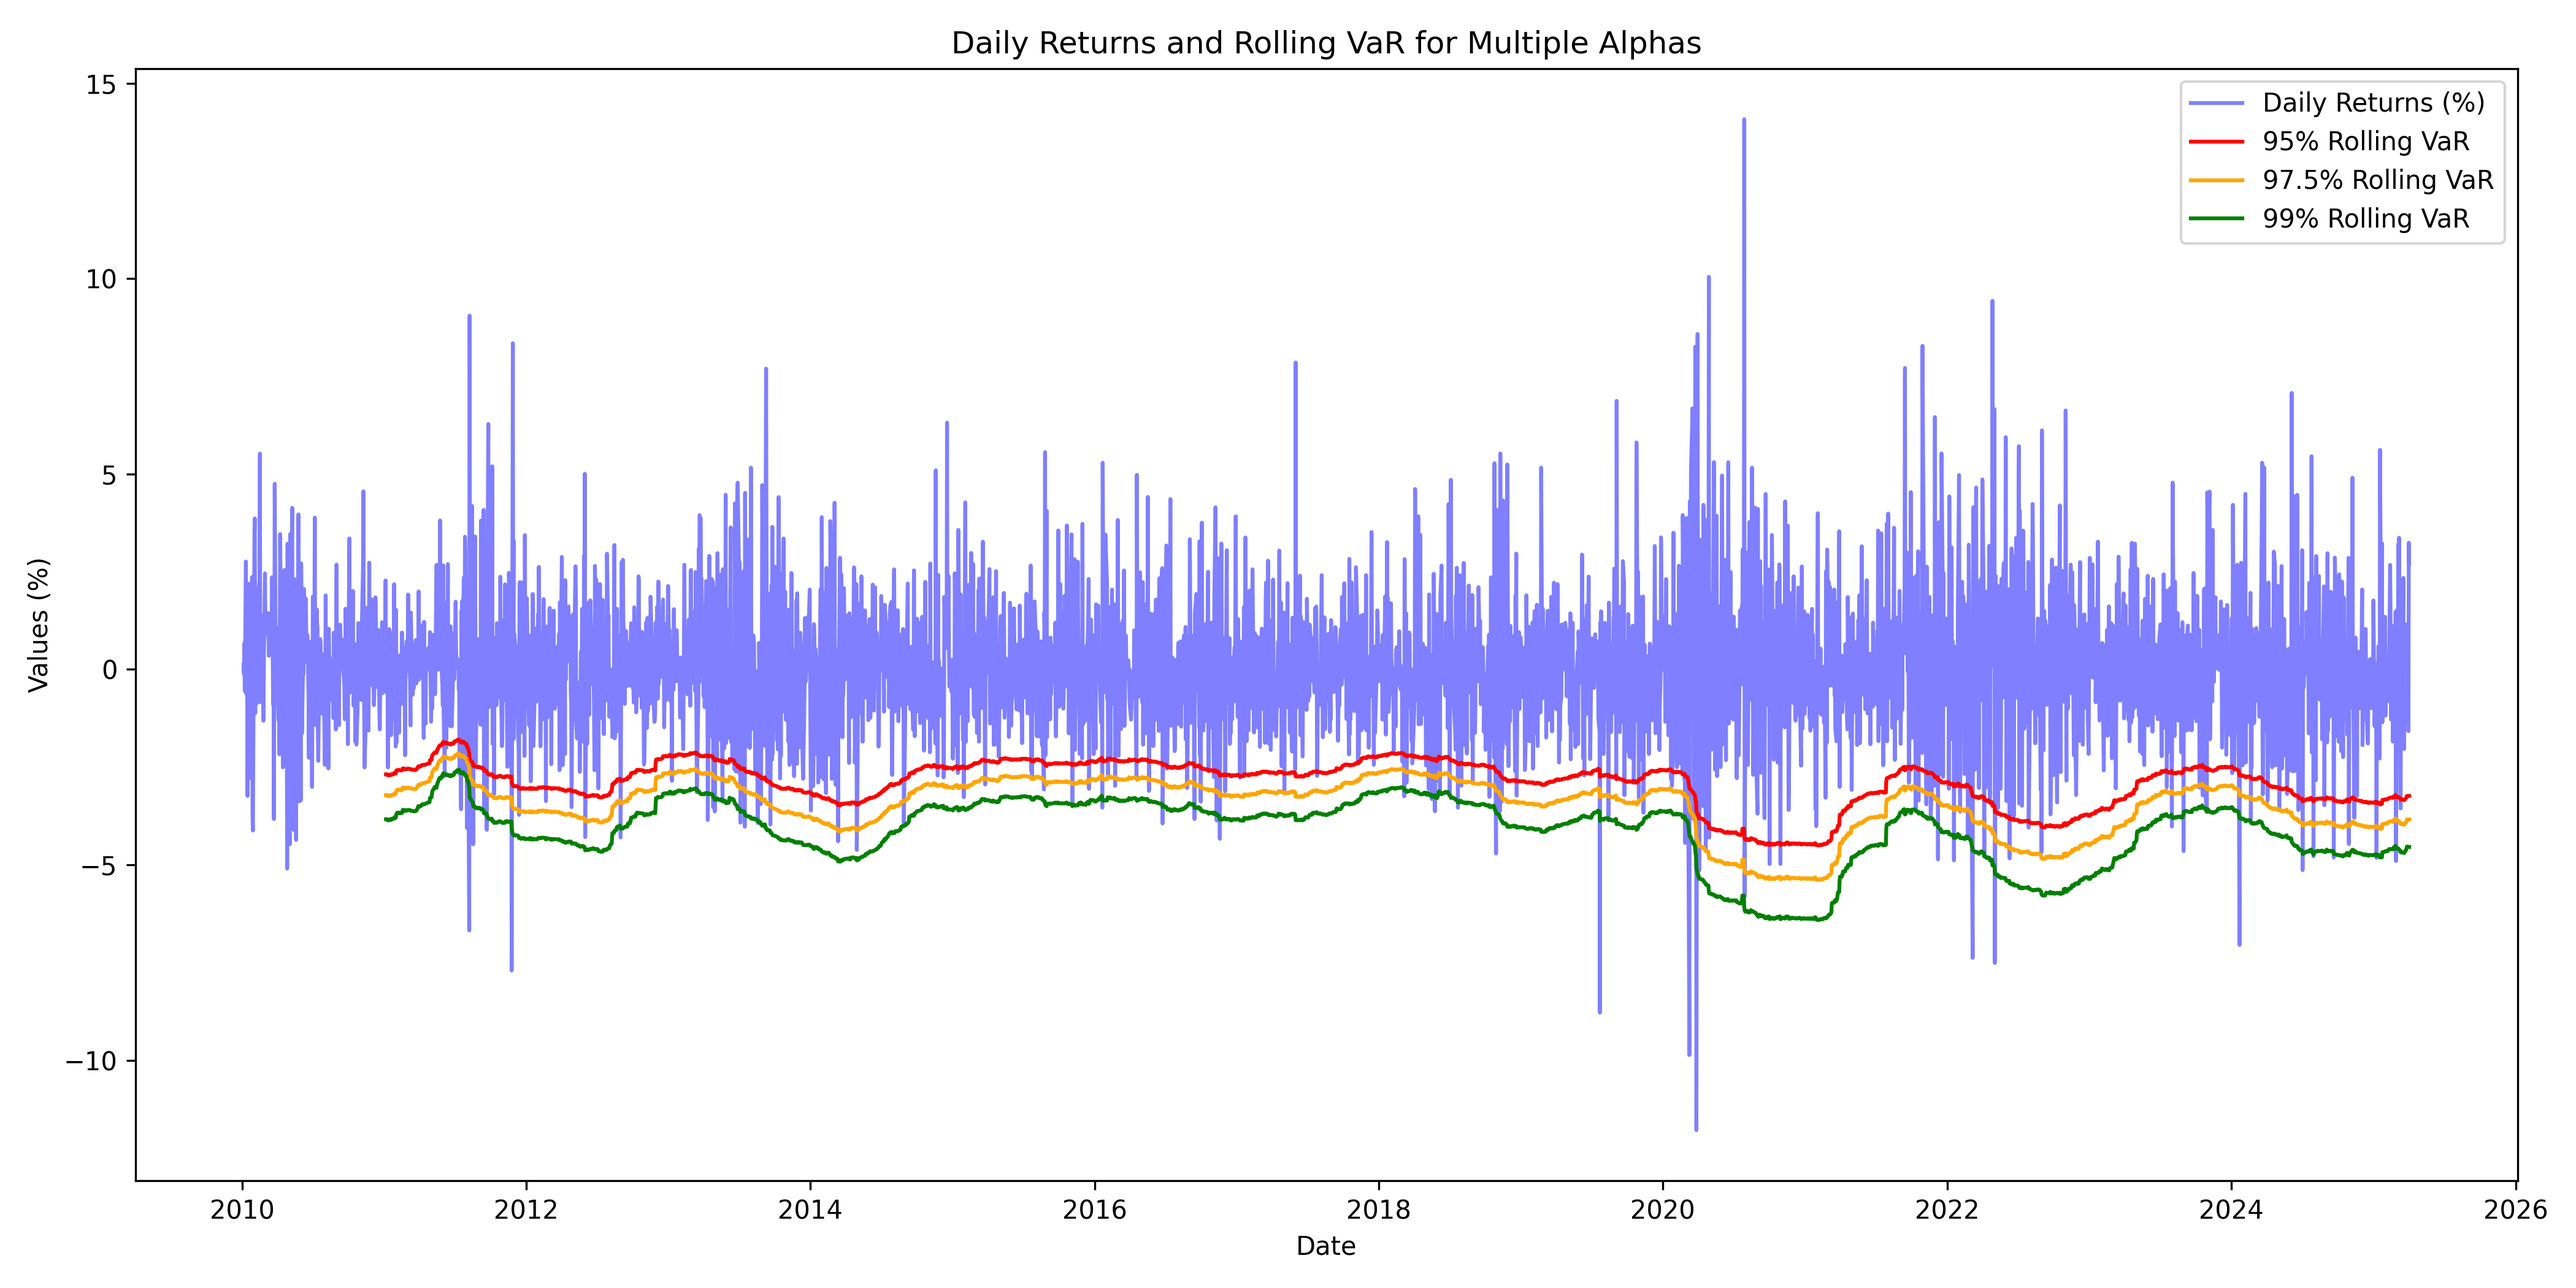
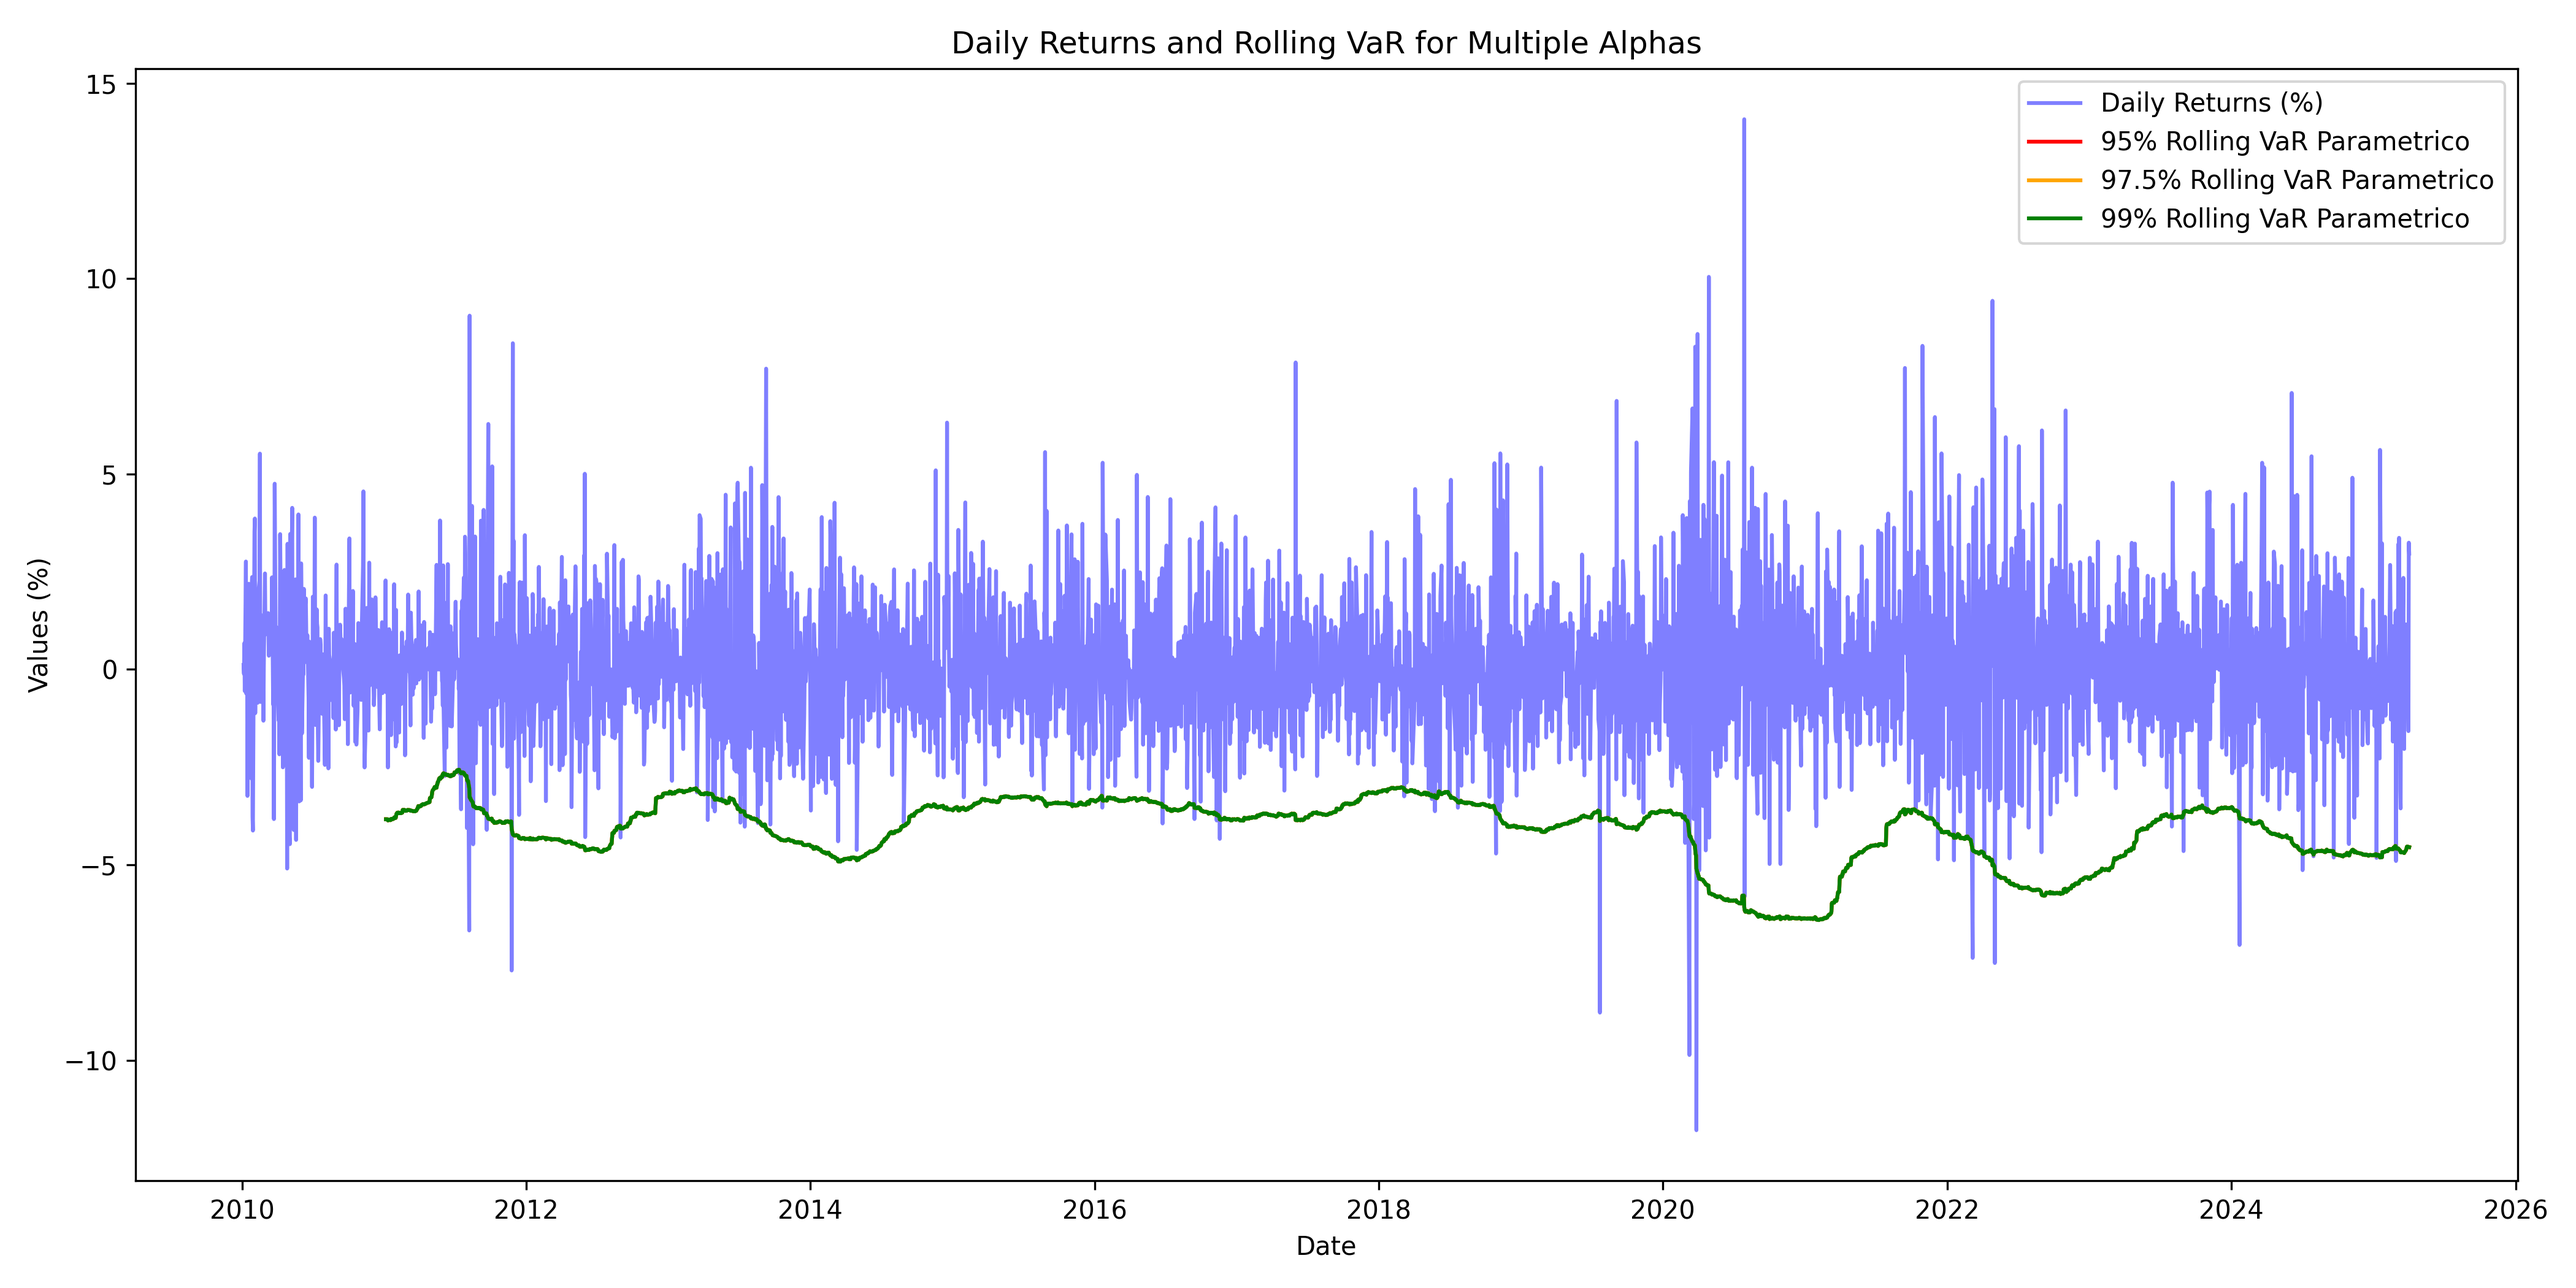
OKAY

diff --git a/Proyecto.py b/Proyecto.py
@@ -12,8 +12,6 @@ with col1:
     st.title('Grupo Bimbo, S.A.B. de C.V. (BIMBOA.MX)')
     st.subheader('Rendimientos diarios de 2010 a la actualidad')
 
-    st.subheader(f'Métricas de BIMBO:')
-
 with col2:
     url_imagen = "https://media.licdn.com/dms/image/v2/C4E12AQFukyhc9QjjBA/article-cover_image-shrink_720_1280/article-cover_image-shrink_720_1280/0/1623952516208?e=2147483647&v=beta&t=PdCxO5tMQqPIvdbKgtv3VUEINbyXujyEcjF9UTSHRZE"
     st.image(url_imagen, width=200)
@@ -35,25 +33,34 @@ sesgo =  float(sesgo_bimbo.item())
 desv_std_bimbo = np.std(df_bimbo_rend)
 stdv = float(desv_std_bimbo.iloc[0])
 
-print(f"Media: {media_bimbo},  {stdv}, Sesgo:{sesgo_bimbo}")
-print(media_bimbo,curtosis_bimbo,sesgo_bimbo,desv_std_bimbo)
-print(media, curtosis, sesgo, stdv)
+   #print(f"Media: {media_bimbo},  {stdv}, Sesgo:{sesgo_bimbo}")
+   #print(media_bimbo,curtosis_bimbo,sesgo_bimbo,desv_std_bimbo)
+   #print(media, curtosis, sesgo, stdv)
 
 #Calculamos los grados de libertad para usar una distribucion t-student en nuestros redimientos diarios.
 grados_lib_bimbo = len(df_bimbo_rend)-1
 
+metricas = ['Media','Curtosis', 'Sesgo','Desviación estándar']
+metrica_seleccionada = st.selectbox('Métricas de Bimbo',metricas)
+if metrica_seleccionada == "Media":
+    st.metric("Media",f"{media:.4%}")
+elif metrica_seleccionada == "Curtosis":
+    st.metric("Curtosis",f"{curtosis:.4}")
+elif metrica_seleccionada == "Sesgo":
+    st.metric("Sesgo",f"{sesgo:.4}")
+elif metrica_seleccionada == "Desviación estándar":
+    st.metric("Desviación estándar",f"{stdv:.4}")
 
-st.metric("Rendimiento Medio Diario", f"{media_bimbo:.4%}")
-st.metric("Desviación Estándar", f"{stdv:.4f}")
-st.metric("Curtosis", f"{curtosis:.4f}")
-st.metric("Sesgo", f"{sesgo:.4f}")
 
 alphas = [0.95, 0.975, 0.99]
 
+#VaR parametrico
 VaR_parametricos = {}
 for p in alphas:
     pVaR_n, pVaR_t = MCF.VaR_parametrico(p, media, stdv, grados_lib_bimbo)
     VaR_parametricos[p] = {"VaR Normal": pVaR_n, "VaR t-Student": pVaR_t}
+
+print(VaR_parametricos)
 
 print("\nVaR bajo una aproximacion parametrica: ")
 for alpha, valores in VaR_parametricos.items():
@@ -61,7 +68,7 @@ for alpha, valores in VaR_parametricos.items():
     #pvar_t = float(valores["VaR t-Student"].item())
     print(f"Alpha: {alpha} | VaR Normal: {pVaR_n:.6f} | VaR t-Student: {pVaR_t:.6f}")
 
-
+#VaR monte carlo
 VaR_MonteCarlo = {}
 for m in alphas:
     MCVaR_n, MCVaR_t = MCF.VaR_MonteCarlo(m, media_bimbo, desv_std_bimbo, grados_lib_bimbo)
@@ -73,53 +80,85 @@ for alpha, valores in VaR_MonteCarlo.items():
     MCvar_t = float(valores["VaR t-Student"])
     print(f"Alpha: {alpha} | VaR Normal: {MCvar_n:.6f} | VaR t-Student: {MCvar_t:.6f}")
 
-
+#VaR historico
 VaR_historicos = {}
 for h in alphas:
-    hVaR = MCF.VaR_historico(df_bimbo_rend, h)
-    VaR_historicos[h] = {"VaR historico": hVaR}
+    hVaR = (MCF.VaR_historico(df_bimbo_rend, h))
+    hvar = float(hVaR)
+    VaR_historicos[h] = {"VaR historico":hvar}
 
 print("\nVaR bajo una aproximacion historica: ")
 for alpha, valores in VaR_historicos.items():
-    hVaR = float(valores["VaR historico"].iloc[0])
-    print(f"Alpha: {alpha} | VaR historico: {hVaR:.6f}")
+    #hvar = float(valores["VaR historico"].iloc[0])
+    print(f"Alpha: {alpha} | VaR historico: {hvar:.6f}")    
 
 
 #CVaR historico 
+CVaR_historico = {}
 print("\nCVaR bajo una aproximacion historica: ")
 for alpha, valores in VaR_historicos.items():
-    hVaR = float(valores["VaR historico"].iloc[0])
-    CVaR_h = MCF.CVaR(df_bimbo_rend, valores["VaR historico"].iloc[0])
+    CVaR_h = MCF.CVaR(df_bimbo_rend, valores["VaR historico"])
+    CVaR_historico[alpha] = {"CVaR historico":CVaR_h}
     print(f"Alpha: {alpha} | CVaR historico: {CVaR_h:.6f}")
 
+   #print(f"CVaR hist es: {CVaR_historico}")
+
 #CVaR parametrico para una dist normal y t-student
+CVaR_parametrico = {}
 print("\nCVaR bajo una aproximacion parametrica: ")
 for alpha, valores in VaR_parametricos.items():
-    pVaR_n = float(valores["VaR Normal"])
-    pVaR_t = float(valores["VaR t-Student"])
     CVaR_p_n = MCF.CVaR(df_bimbo_rend, valores["VaR Normal"])
     CVaR_p_t = MCF.CVaR(df_bimbo_rend, valores["VaR t-Student"])
+    CVaR_parametrico[alpha] = {"CVaR normal":CVaR_p_n, "CVaR t-student":CVaR_p_t}
     print(f"Alpha: {alpha} | CVaR Normal: {CVaR_p_n:.6f} | CVaR t-Student: {CVaR_p_t:.6f}")
 
 #CVaR Monte Carlo para una dist normal y t-student
+CVaR_Monte_Carlo = {}
 print("\nCVaR bajo una aproximacion Monte Carlo: ")
 for alpha, valores in VaR_MonteCarlo.items():
-    MCvar_n = float(valores["VaR Normal"])
-    MCvar_t = float(valores["VaR t-Student"])
     CVaR_MC_n = MCF.CVaR(df_bimbo_rend, valores["VaR Normal"])
     CVaR_MC_t = MCF.CVaR(df_bimbo_rend, valores["VaR t-Student"])
+    CVaR_Monte_Carlo[alpha] = {"CVaR normal":CVaR_MC_n, "CVaR t-student":CVaR_MC_t}
     print(f"Alpha: {alpha} | CVaR Normal: {CVaR_MC_n:.6f} | CVaR t-Student: {CVaR_MC_t:.6f}")
 
 
+aproximaciones=['Paramétrico','Histórico','Monte Carlo']
+medidas = ['Value-At-Risk (VaR)','Expected Shortfall (CVaR)']
+aprox_seleccionado = st.selectbox('Tipo de aproximación:', aproximaciones)
+if aprox_seleccionado == "Paramétrico":
+    medidas_seleccionada =  st.selectbox('Medida de riesgo:', medidas)  
+    if medidas_seleccionada == "Value-At-Risk (VaR)":
+        st.table(VaR_parametricos)
+    elif medidas_seleccionada == "Expected Shortfall (CVaR)":
+        st.table(CVaR_parametrico)
+elif aprox_seleccionado == "Histórico":
+    medidas_seleccionada =  st.selectbox('Medida de riesgo:', medidas)  
+    if medidas_seleccionada == "Value-At-Risk (VaR)":
+        st.table(VaR_historicos)
+    elif medidas_seleccionada == "Expected Shortfall (CVaR)":
+        st.table(CVaR_historico)    
+elif aprox_seleccionado == "Monte Carlo":
+    medidas_seleccionada =  st.selectbox('Medida de riesgo:', medidas)  
+    if medidas_seleccionada == "Value-At-Risk (VaR)":
+        st.table(VaR_MonteCarlo)
+    elif medidas_seleccionada == "Expected Shortfall (CVaR)":
+        st.table(CVaR_Monte_Carlo)
 
 #Rolling Window
 rolling_mean = df_bimbo_rend.rolling(window=252).mean()
 rolling_std = df_bimbo_rend.rolling(window=252).std()
+rolling_hist = df_bimbo_rend.rolling(window=252)
 
-
+#VaR parametrico rolling window
 VaR_roll_p = {}
 for a in alphas:
-    VaR_roll_n = MCF.VaR_rolling(a, rolling_mean, rolling_std)
+    VaR_roll_n = MCF.VaR_rolling_p(a, rolling_mean, rolling_std)
+    VaR_roll_p [a] = {"VaR Parametrico Rolling":VaR_roll_n}
+
+#VaR historico rolling window
+VaR_roll_h = {}
+for a in alphas:
+    VaR_roll_h = MCF.VaR_rolling_p(a, rolling_mean, rolling_std)
     VaR_roll_p [a] = {"VaR Parametrico Rolling":VaR_roll_n}
 
 
@@ -131,7 +170,7 @@ for alpha, valores in VaR_roll_p.items():
 fechas = df_bimbo_rend.index  
 var_dataframe = pd.DataFrame(resultados, index=fechas)
 
-var_dataframe.columns = [f"{alpha} VaR Rolling" for alpha in var_dataframe.columns]
+var_dataframe.columns = [f"{alpha} VaR P Rolling" for alpha in var_dataframe.columns]
 
 print(var_dataframe)
 
@@ -141,9 +180,9 @@ plt.figure(figsize=(14, 7))
 plt.plot(df_bimbo_rend.index, df_bimbo_rend * 100, label='Daily Returns (%)', color='blue', alpha=0.5)
 
 # Graficar los VaR para cada alpha
-plt.plot(var_dataframe.index, var_dataframe['0.95 VaR Rolling'], label='95% Rolling VaR', color='red')
-plt.plot(var_dataframe.index, var_dataframe['0.975 VaR Rolling'], label='97.5% Rolling VaR', color='orange')
-plt.plot(var_dataframe.index, var_dataframe['0.99 VaR Rolling'], label='99% Rolling VaR', color='green')
+plt.plot(var_dataframe.index, var_dataframe['0.95 VaR P Rolling'], label='95% Rolling VaR Parametrico', color='red')
+plt.plot(var_dataframe.index, var_dataframe['0.975 VaR P Rolling'], label='97.5% Rolling VaR Parametrico', color='orange')
+plt.plot(var_dataframe.index, var_dataframe['0.99 VaR P Rolling'], label='99% Rolling VaR Parametrico', color='green')
 
 
 # Títulos 

diff --git a/Funciones_MCF.py b/Funciones_MCF.py
@@ -39,8 +39,14 @@ def CVaR (df, VaR):
     CVaR = np.mean(df[df <= VaR])
     return CVaR
 
-#Funcion para calcular el VaR rolling
-def VaR_rolling (alpha, media, desv):
+#Funcion para calcular el VaR rolling parametrico
+def VaR_rolling_p (alpha, media, desv):
     VaR_n_rolling = norm.ppf(1-alpha, media, desv)
     VaR_n_rll_percent = (VaR_n_rolling * 100).round(4)
     return VaR_n_rll_percent
+
+#Funcion para calcular el VaR rolling historico
+def VaR_rolling_his (df, a):
+    hVaR = (df.quantile(1-a))
+    hVaR_perc = (hVaR*100).round(4)
+    return hVaR_perc
